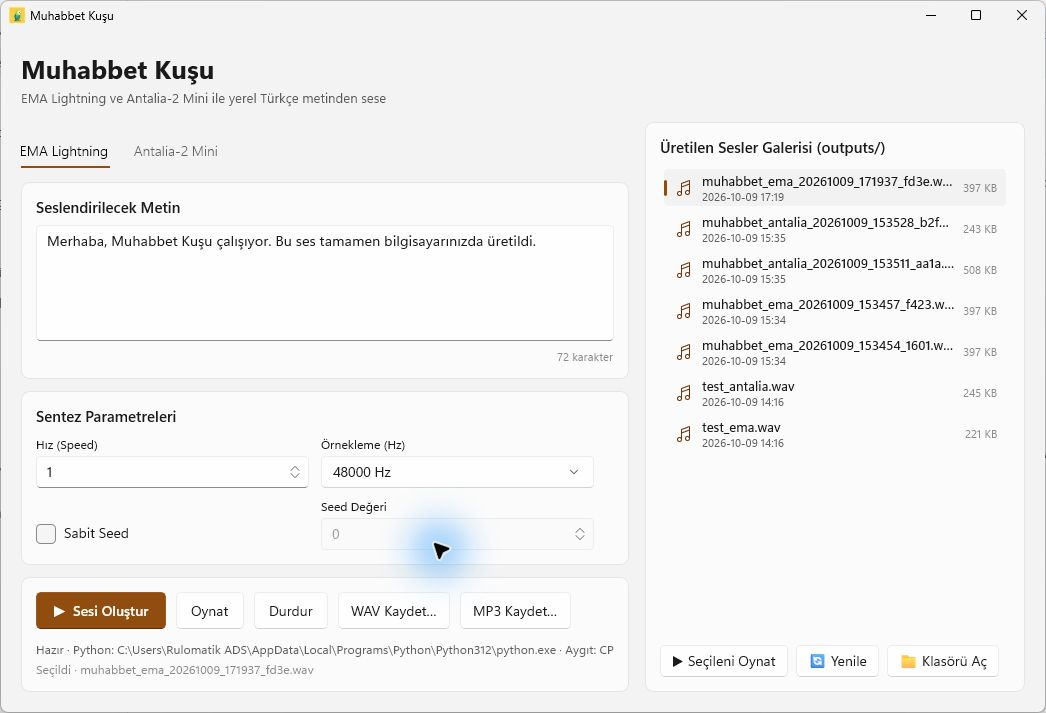
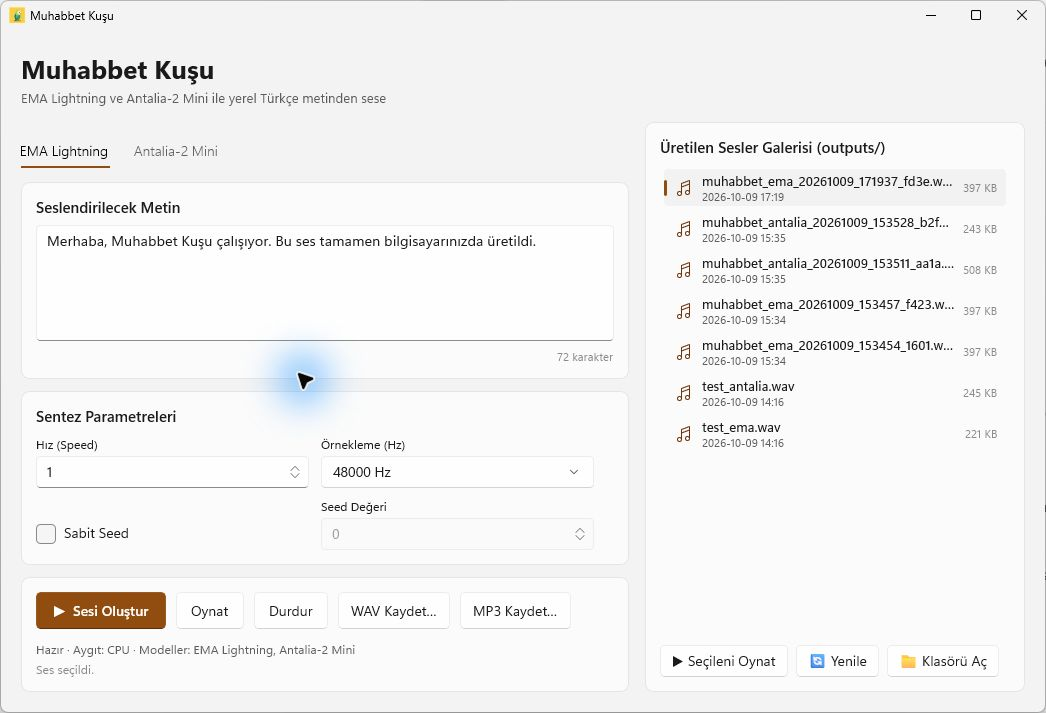
Remove file details from footer and refresh screenshots

Changed region(s): [[0.0306, 0.8948, 0.5813, 0.9565], [0.3671, 0.7097, 0.4589, 0.8331], [0.2447, 0.4628, 0.3365, 0.5863]]

diff --git a/MainWindow.xaml.cs b/MainWindow.xaml.cs
@@ -97,7 +97,7 @@ public sealed partial class MainWindow : Window
 
             _bridge = new PythonEmaBridge(_pythonExe, bridgePath);
             var reply = await _bridge.StartAsync();
-            _idleStatusText = $"Hazır · Python: {_pythonExe} · Aygıt: {reply.Device ?? "bilinmiyor"} · Modeller: EMA Lightning, Antalia-2 Mini";
+            _idleStatusText = $"Hazır · Aygıt: {reply.Device ?? "bilinmiyor"} · Modeller: EMA Lightning, Antalia-2 Mini";
             StatusText.Text = _idleStatusText;
         }
         catch (Exception ex)
@@ -212,7 +212,7 @@ public sealed partial class MainWindow : Window
                 _suppressSelectionResultUpdate = false;
             }
 
-            ResultText.Text = $"Hazır · {reply.Duration:0.00} sn · {reply.SampleRate} Hz · seed {reply.Seed} · {Path.GetFileName(output)}";
+            ResultText.Text = $"Hazır · {reply.Duration:0.00} sn · {reply.SampleRate} Hz · seed {reply.Seed}";
             PlayButton.IsEnabled = StopButton.IsEnabled = SaveWavButton.IsEnabled = SaveMp3Button.IsEnabled = true;
         }
         catch (Exception ex)
@@ -282,7 +282,7 @@ public sealed partial class MainWindow : Window
             _currentWav = item.FilePath;
             if (!_suppressSelectionResultUpdate)
             {
-                ResultText.Text = $"Seçildi · {item.Name}";
+                ResultText.Text = "Ses seçildi.";
             }
         }
         UpdatePlaybackButtons();
@@ -353,7 +353,7 @@ public sealed partial class MainWindow : Window
                 {
                     File.Copy(_currentWav, file.Path, overwrite: true);
                 }
-                ResultText.Text = $"WAV kaydedildi · {file.Name}";
+                ResultText.Text = "WAV kaydedildi.";
             }
         }
         catch (Exception ex)
@@ -407,7 +407,7 @@ public sealed partial class MainWindow : Window
             if (process.ExitCode != 0)
                 throw new InvalidOperationException(error);
 
-            ResultText.Text = $"MP3 kaydedildi · {file.Name}";
+            ResultText.Text = "MP3 kaydedildi.";
         }
         catch (Exception ex)
         {
